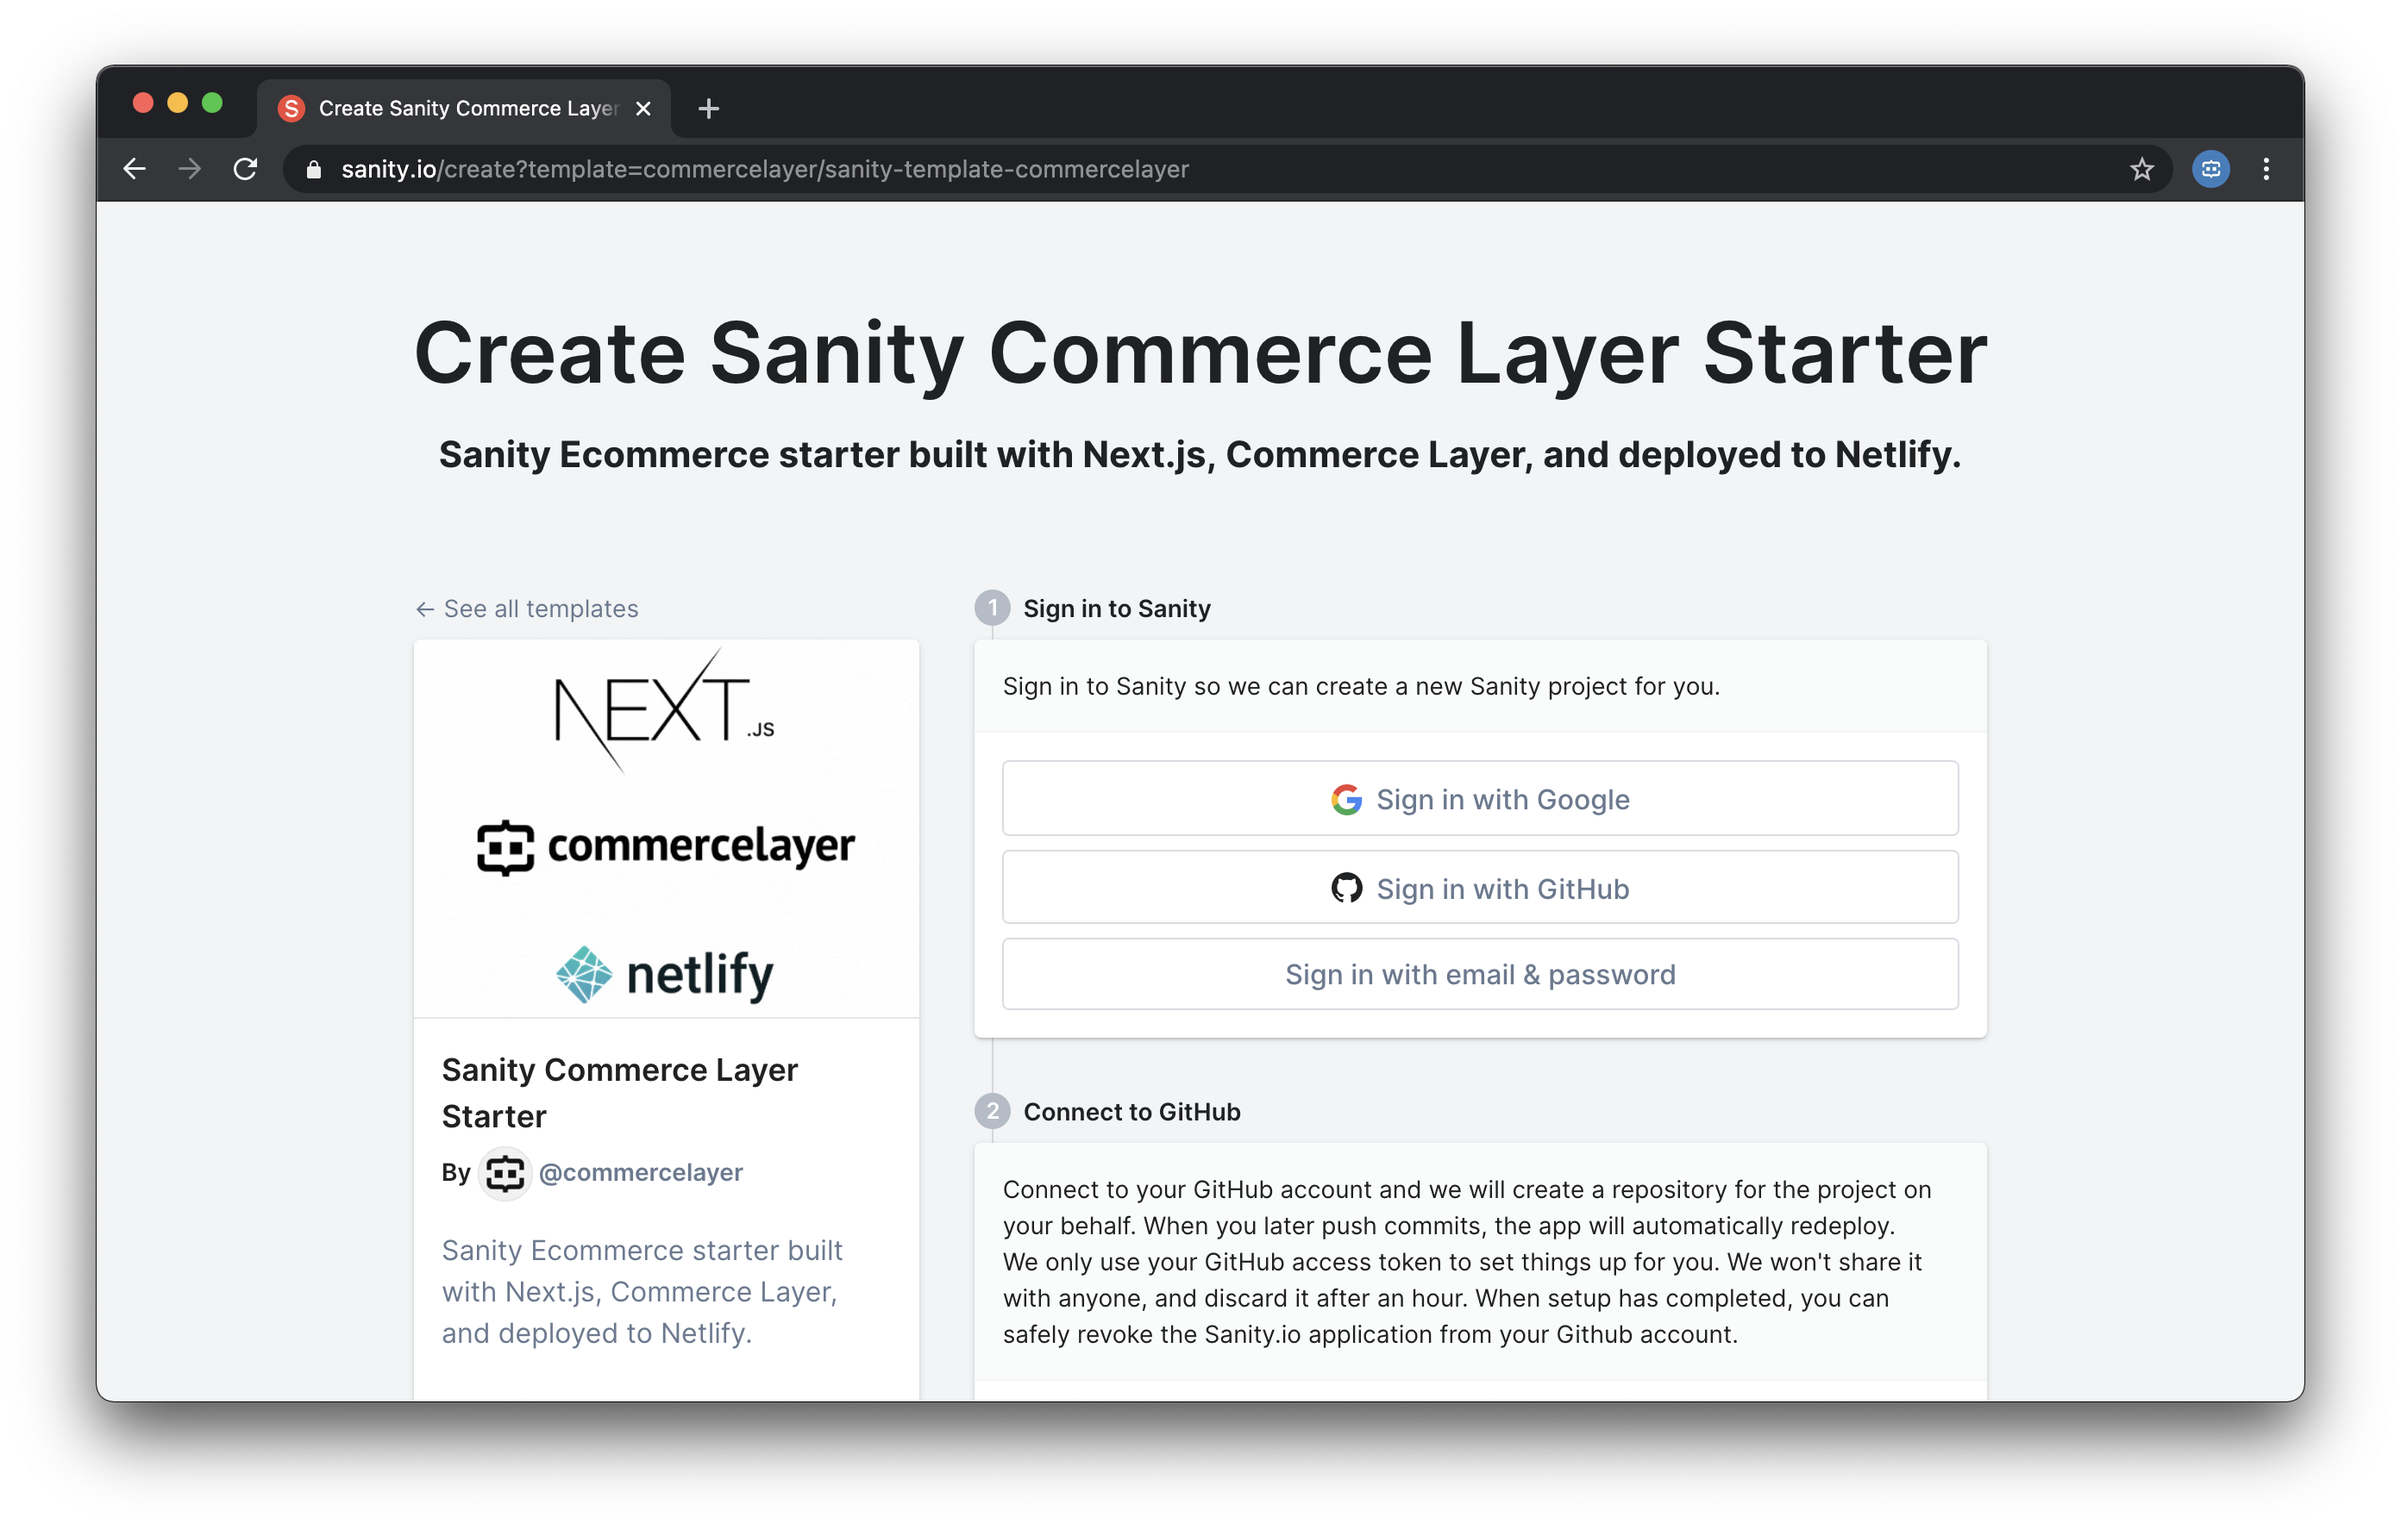
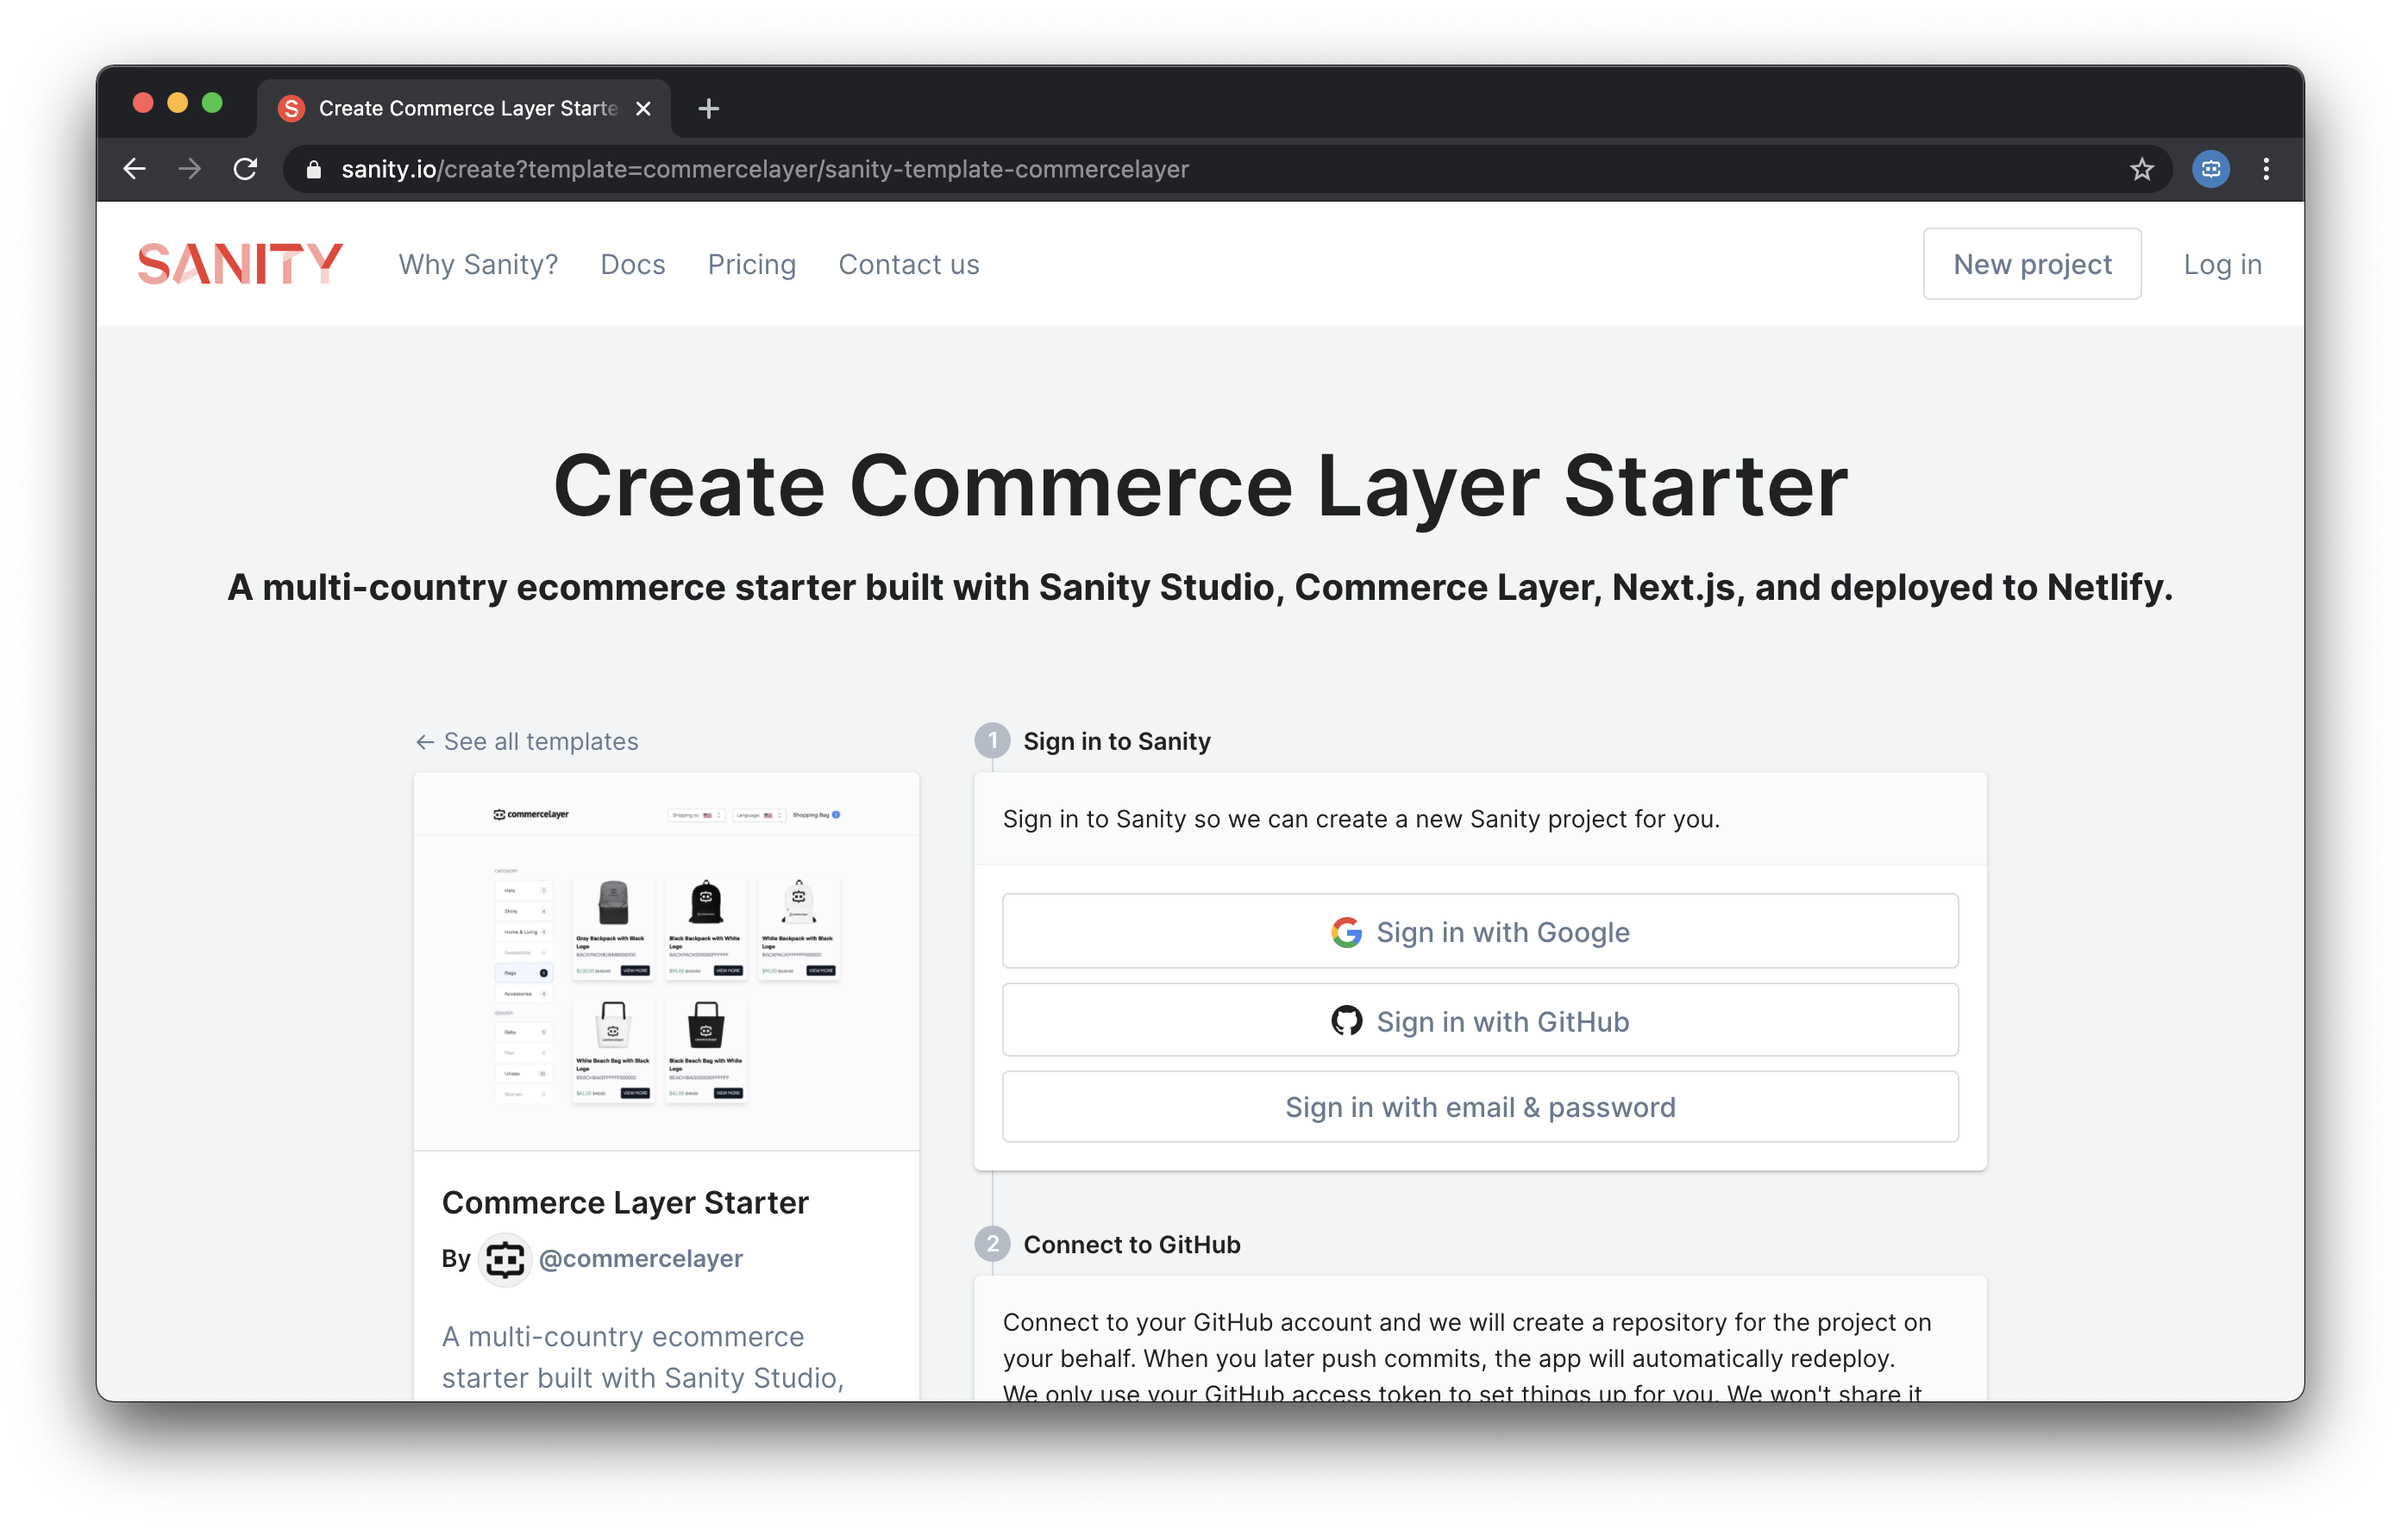
docs(docs): update import guide and screenshots

diff --git a/README.md b/README.md
@@ -2,13 +2,26 @@
 
 A multi-country ecommerce starter that features the sanity studio built with Commerce Layer, Next.js, and deployed to Netlify.
 
-![](https://raw.githubusercontent.com/commercelayer/sanity-template-commercelayer/main/assets/preview.gif)
+![](https://raw.githubusercontent.com/commercelayer/sanity-template-commercelayer/main/assets/preview.gif 'A preview GIF showing the frontend demo and some logos')
 
-![](https://raw.githubusercontent.com/commercelayer/sanity-template-commercelayer/main/assets/studio.png)
+![](https://raw.githubusercontent.com/commercelayer/sanity-template-commercelayer/main/assets/studio.png 'Screenshot of Commerce Layer Sanity Studio')
 
 ## What is Commerce Layer?
 
 [Commerce Layer](https://commercelayer.io) is a headless commerce platform and order management system that lets you add global shopping capabilities to any website, mobile app, chatbot, or IoT device, with ease. Perfect fit for the best-of-breed CMSs, static site generators, and any other tools you already master and love, our blazing-fast and secure API will help you make your content shoppable on a global scale.
+
+## Table of contents
+
+- [Starter features](#starter-features)
+- [Getting started](#getting-started)
+  - [⚙ Installation guide](#⚙%EF%B8%8F-installation-guide)
+  - [✨ Run frontend locally](#-run-frontend-locally)
+  - [🗂 Run studio locally](#-run-studio-locally)
+  - [⬇ Import test studio content](#%EF%B8%8F-import-test-studio-content)
+  - [⬇ Seed Commerce Layer data](#%EF%B8%8F-seed-commerce-layer-data)
+- [Contributors guide](#contributors-guide)
+- [Need help?](#need-help)
+- [License](#license)
 
 ## Starter features
 
@@ -21,9 +34,9 @@ A multi-country ecommerce starter that features the sanity studio built with Com
 
 ## Getting started
 
-The quickest way to get up and running is to go to https://www.sanity.io/create?template=commercelayer/sanity-template-commercelayer and create a new project by following the instructions on Sanity.
+The quickest way to get up and running is to go to https://www.sanity.io/create?template=commercelayer/sanity-template-commercelayer and create a new project by following the instructions on Sanity. You can also clone this repository, configure the starter, import some test content into your Sanity studio, import some test data into your Commerce Layer organization, and deploy your application.
 
-![](https://raw.githubusercontent.com/commercelayer/sanity-template-commercelayer/main/assets/sanity.png)
+![](https://raw.githubusercontent.com/commercelayer/sanity-template-commercelayer/main/assets/sanity.png 'Screenshot of Commerce Layer Starter in sanity.io')
 
 ### ⚙ Installation guide
 
@@ -104,7 +117,35 @@ NB: If your dataset is not named `production`, kindly update the dataset name to
 
 ### ⬇ Seed Commerce Layer data
 
-*Coming soon.*
+1. Create a [Commerce Layer account](https://core.commercelayer.io/users/sign_up).
+
+2. Create a new organization.
+
+3. Create a new application in **Settings > Applications** with **Kind** set to `sanity`.
+
+4. In your newly created application, copy your Client ID.
+
+5. Install the Commerce Layer Seeder which is available as an [npm package](https://www.npmjs.com/package/@commercelayer/commercelayer-seeder-cli):
+
+```
+// npm
+npm install -g @commercelayer/commercelayer-seeder-cli
+
+// yarn
+yarn global add @commercelayer/commercelayer-seeder-cli
+```
+
+6. Run the command below to import a [set of products](https://data.commercelayer.app/seed/skus.json), related [prices](https://data.commercelayer.app/seed/prices.json), and [inventory](https://data.commercelayer.app/seed/stock_items.json) into your organization.
+
+```bash
+commercelayer-seeder -i your-client-id -e https://<yourdomain>.commercelayer.io
+```
+
+7. To see the commands for other seeder options, type the command below:
+
+```bash
+commercelayer-seeder --help
+```
 
 ## Contributors guide
 
